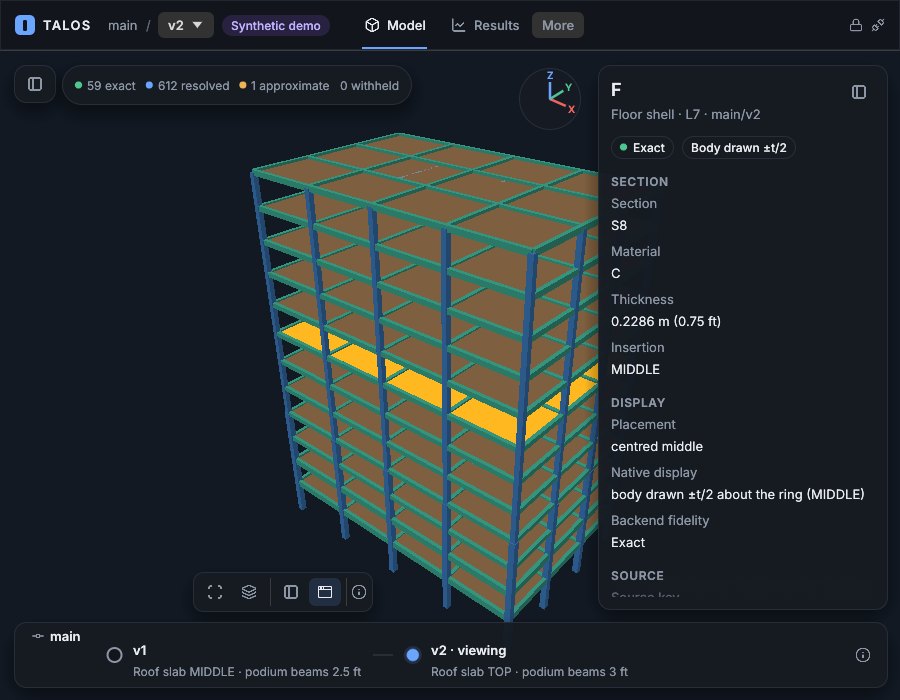
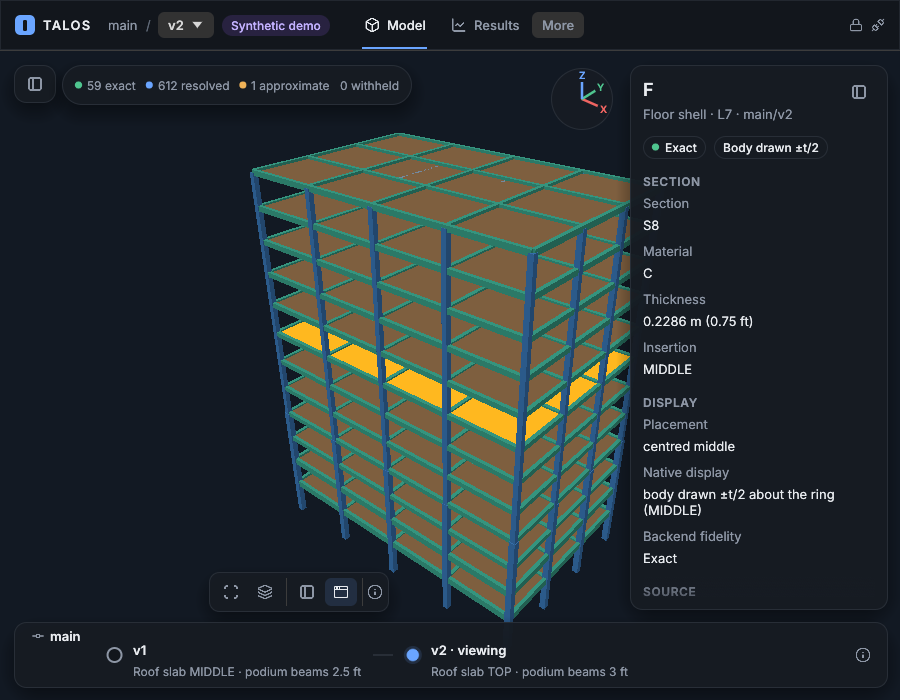
APP-01A.2: a 256 pt Inspector on compact windows
Owner's Windows note on #54: the right panel was too wide at ~900 px. Below
the compact width the Inspector is 256 pt (wide windows keep up to 336 pt);
its rows already stack and wrap at that width, with the 12 pt floor and no
truncation. A real-UI test covers 900 x 600/700 at 1.0/1.25/1.5: one panel,
the Inspector width, the unobscured model region, E/I, compact -> wide ->
compact and Docked; it fails at the earlier 288 pt. Before/after captures.

Claude-Session: https://claude.ai/code/session_01V2VcJ8ARhG6CxnTY4XGPdz

Changed region(s): [[0.5911, 0.12, 0.9644, 0.87], [0.2489, 0.81, 0.4356, 0.87]]

diff --git a/apps/talos-native/src/ui_tests.rs b/apps/talos-native/src/ui_tests.rs
@@ -19,10 +19,14 @@ fn harness(mode: LoadMode) -> Harness<'static, App> {
     harness_sized(mode, egui::vec2(1280.0, 800.0))
 }
 fn harness_sized(mode: LoadMode, size: egui::Vec2) -> Harness<'static, App> {
+    harness_scaled(mode, size, 1.0)
+}
+fn harness_scaled(mode: LoadMode, size: egui::Vec2, scale: f32) -> Harness<'static, App> {
     let mut harness = Harness::builder()
         // A loading spinner animates; a settled UI needs far fewer steps.
         .with_max_steps(8)
         .with_size(size)
+        .with_pixels_per_point(scale)
         .build_eframe(move |cc| {
             crate::theme::install(&cc.egui_ctx);
             App::with_parts(
@@ -1039,4 +1043,55 @@ fn the_explorer_says_when_the_selection_is_outside_its_story_filter() {
     assert_eq!(selected(&harness), picked, "the selection is kept");
     assert!(!present(&harness, "outside the"));
     assert!(present(&harness, "ENTITIES ON L1"));
+}
+
+#[test]
+fn compact_panels_keep_a_narrow_inspector_at_every_scale_and_height() {
+    for scale in [1.0, 1.25, 1.5] {
+        for height in [600.0, 700.0] {
+            let context = format!("900 x {height} at {scale}");
+            let mut harness = harness_scaled(LoadMode::Inline, egui::vec2(900.0, height), scale);
+            assert!(card(&harness, "Explorer").is_some(), "{context}");
+            assert!(card(&harness, "Inspector").is_none(), "{context}");
+            select(&mut harness, "|F|L12");
+            assert!(card(&harness, "Explorer").is_none(), "{context}");
+            let inspector = card(&harness, "Inspector").expect("inspector");
+            let canvas = harness.get_by_label("3D model view").rect();
+            let left = canvas.right()
+                - crate::pages::model::MARGIN
+                - crate::pages::model::COMPACT_INSPECTOR_WIDTH;
+            assert!(inspector.left() >= left - 0.5, "{context}: {inspector:?}");
+            let free = unobscured(&harness);
+            assert!(
+                free.width() >= 600.0 && free.height() >= 330.0,
+                "{context}: {free:?}"
+            );
+            // Readable, not elided: the native-display sentence and the
+            // source key appear whole in the narrow card.
+            assert!(present(&harness, "flat at declared face"), "{context}");
+            assert!(present(&harness, "inst|sh|F|L12"), "{context}");
+            // E/I, compact -> wide -> compact, docked: one narrow panel.
+            harness.key_press(egui::Key::I);
+            settle(&mut harness);
+            assert!(card(&harness, "Explorer").is_some(), "{context}: I");
+            harness.key_press(egui::Key::E);
+            settle(&mut harness);
+            assert!(card(&harness, "Inspector").is_some(), "{context}: E");
+            harness.set_size(egui::vec2(1280.0, 800.0));
+            settle(&mut harness);
+            assert!(card(&harness, "Explorer").is_some(), "{context}: wide");
+            harness.set_size(egui::vec2(900.0, height));
+            settle(&mut harness);
+            assert!(
+                card(&harness, "Explorer").is_none(),
+                "{context}: compact again"
+            );
+            set_mode(&mut harness, "Docked panels");
+            let docked = harness.get_by_label("3D model view").rect();
+            assert!(
+                docked.width() >= 900.0 - crate::pages::model::COMPACT_INSPECTOR_WIDTH - 2.0,
+                "{context}: docked {docked:?}"
+            );
+        }
+    }
 }

diff --git a/apps/talos-native/src/pages/model.rs b/apps/talos-native/src/pages/model.rs
@@ -18,15 +18,21 @@ use lab_e2k_mesh::{
 
 pub(crate) const MARGIN: f32 = 14.0;
 const EXPLORER_WIDTH: f32 = 272.0;
-const INSPECTOR_WIDTH: f32 = 344.0;
+const INSPECTOR_WIDTH: f32 = 336.0;
+/// The Inspector's width on a compact window, where it is the only panel
+/// (owner, #54 Windows note: ~240–260 pt).
+pub(crate) const COMPACT_INSPECTOR_WIDTH: f32 = 256.0;
 const STRIP_HEIGHT: f32 = 64.0;
 /// Explorer and inspector widths for a page `total` wide: the design widths
-/// on a wide window, narrower at 900 px so the canvas keeps ~400 px.
+/// on a wide window; below the compact width a narrower Explorer and a
+/// 256 pt Inspector (one of them at a time).
 pub(crate) fn pane_widths(total: f32) -> (f32, f32) {
-    (
-        EXPLORER_WIDTH.min((total * 0.25).max(220.0)),
-        INSPECTOR_WIDTH.min((total * 0.32).max(260.0)),
-    )
+    let inspector = if total < crate::app::COMPACT_WIDTH {
+        COMPACT_INSPECTOR_WIDTH
+    } else {
+        INSPECTOR_WIDTH.min((total * 0.32).max(260.0))
+    };
+    (EXPLORER_WIDTH.min((total * 0.25).max(220.0)), inspector)
 }
 
 pub fn show(ui: &mut egui::Ui, state: &State, view: &mut dyn ModelView) -> Vec<Action> {
@@ -67,7 +73,7 @@ pub fn show(ui: &mut egui::Ui, state: &State, view: &mut dyn ModelView) -> Vec<A
             .frame(pane.stroke(egui::Stroke::new(1.0, tokens.chrome_line)))
             .resizable(true)
             .default_size(inspector_width)
-            .size_range(260.0..=(total * 0.32).max(260.0))
+            .size_range(240.0..=inspector_width.max(240.0))
             .show(ui, |ui| {
                 if inspector(
                     ui,

diff --git a/docs/native/app-01a2-visual.md b/docs/native/app-01a2-visual.md
@@ -83,6 +83,12 @@ explorer (I)** / **Switch to inspector (E)**. The hidden one keeps a corner
 button (**Show explorer (E)** / **Show inspector (I)**). E and I do the same
 from the keyboard, and an explicit toggle always works.
 
+On a compact window the Inspector is 256 pt wide (owner's Windows note on
+#54: 240–260 pt). Wide windows keep up to 336 pt. Its rows stack name over
+value and wrap, with nothing below 12 pt and no truncation, and longer content
+scrolls. `before-inspector-288-900-1x.png` is the 288 pt version, for
+comparison with `model-900-floating-inspector-1x.png`.
+
 The user's panel intent (`explorer_open` / `inspector_open`) is kept apart from
 what the width can show (`ModelState::shows_explorer` / `shows_inspector`).
 Resizing 1280 → 900 → 1280 restores both panels, keeps the selection, project
@@ -156,7 +162,7 @@ values are plotted or invented.
 
 ## Tests
 
-There are 41 `talos-native` tests, including the two story-selection tests merged in from #53 (`0e7330b`). The UI tests run the real `App` and
+There are 42 `talos-native` tests, including the two story-selection tests merged in from #53 (`0e7330b`). The UI tests run the real `App` and
 `NativeModelView` through egui's AccessKit tree. Seven are new or rewritten
 for A.2:
 
@@ -173,6 +179,10 @@ for A.2:
 - the explorer text filter and type filter;
 - the selection outside the story filter: the notice, and **Show in Explorer**
   keeping the selection (state and UI);
+- at 900 × 600 and 900 × 700, each at 1.0, 1.25 and 1.5: one panel; the
+  Inspector at 256 pt with the native-display sentence and source key whole; an
+  unobscured region of at least 600 × 330 pt; E/I; compact → wide → compact;
+  Docked. This test fails at the earlier 288 pt;
 - at 900 pt: the More overflow, no header overlaps, shortcuts still route, and
   the canvas keeps at least 380 pt;
 - shrinking from 1280 to 900 pt narrows the docked panes. This test fails
@@ -190,7 +200,8 @@ chips.
   real pick, the same pick docked, Results, then the window resized to
   900 × 700 with one contextual panel (the Inspector for the pick, then the
   Explorer, floating and docked).
-- `*.png`: those 21 frames, all public synthetic tower data.
+- `*.png`: those 21 frames plus `before-inspector-288-900-1x.png`, all public
+  synthetic tower data.
 - `gate.sh.txt` and `gate-a2-66c15d7.txt`: the clean-worktree gate at
   `66c15d7`, after the compact-panel and story-filter changes. Every step is
   green except the known G-ENV-1 whole-workspace Clippy exception
